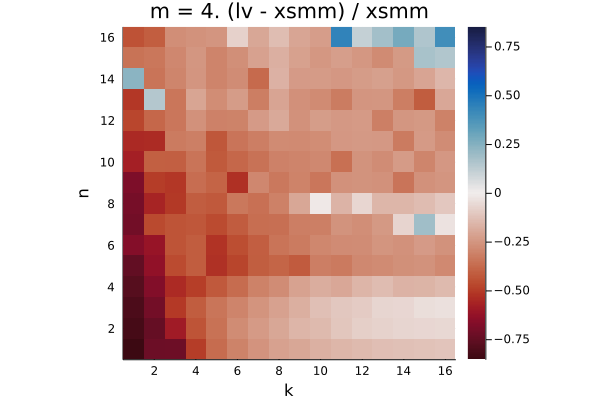
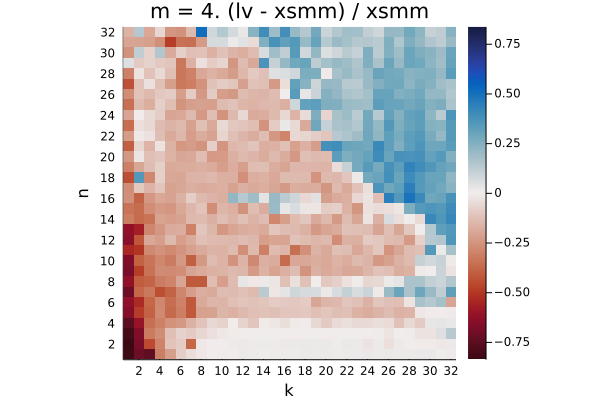
extend skylake-avx512 bench

diff --git a/readme.md b/readme.md
@@ -75,25 +75,21 @@ Q₁ = 0.090.  Q₂ = 0.150.  Q₃ = 0.222
 
 ## skylake-avx512
 
-![assets/skylake-avx512/plot_1.png](assets/skylake-avx512/plot_1.png)
-
-Q₁ = -0.317.  Q₂ = -0.023.  Q₃ = 3.267
-
 ![assets/skylake-avx512/plot_2.png](assets/skylake-avx512/plot_2.png)
 
-Q₁ = -0.433.  Q₂ = -0.188.  Q₃ = -0.009
+Q₁ = -0.166.  Q₂ = -0.007.  Q₃ = 0.112
 
 ![assets/skylake-avx512/plot_4.png](assets/skylake-avx512/plot_4.png)
 
-Q₁ = -0.376.  Q₂ = -0.280.  Q₃ = -0.210
+Q₁ = -0.183.  Q₂ = -0.103.  Q₃ = 0.133
 
 ![assets/skylake-avx512/plot_8.png](assets/skylake-avx512/plot_8.png)
 
-Q₁ = -0.135.  Q₂ = -0.041.  Q₃ = -0.002
+Q₁ = -0.083.  Q₂ = -0.008.  Q₃ = 0.185
 
 ![assets/skylake-avx512/plot_16.png](assets/skylake-avx512/plot_16.png)
 
-Q₁ = -0.174.  Q₂ = -0.075.  Q₃ = -0.000
+Q₁ = -0.118.  Q₂ = -0.036.  Q₃ = 0.127
 
 
 ## znver2
